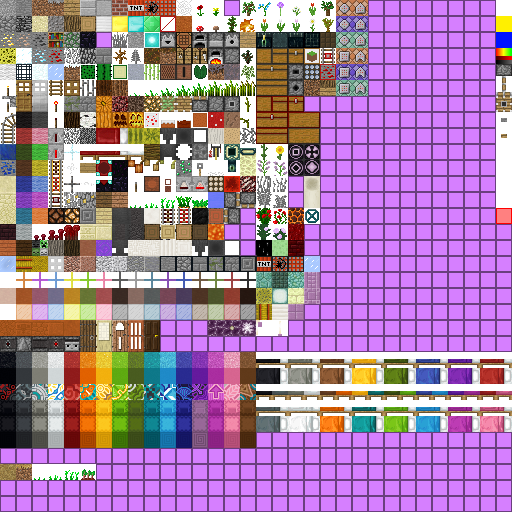
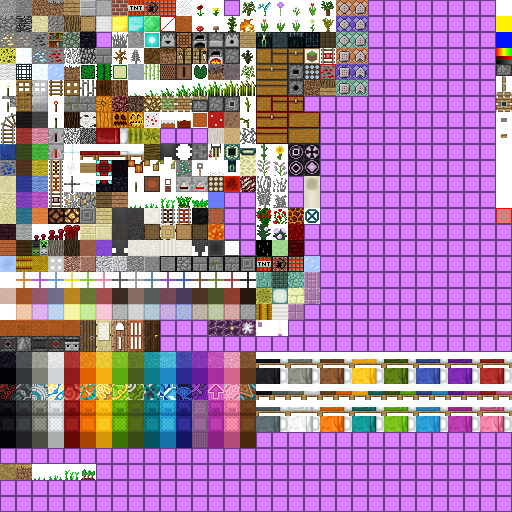
piston head extension

Changed region(s): [[0.4375, 0.375, 0.5, 0.4375], [0.3125, 0.25, 0.4062, 0.2812], [0.9688, 0.4062, 1.0, 0.4375]]

diff --git a/resources/blocksTable.js b/resources/blocksTable.js
@@ -330,10 +330,10 @@
 	{id: 29, name: "Sticky piston", type: CUST, bbox: FULL, inv: CUBE, invState: 1, cat: REDSTONE, rsupdate: RECEIVE, special: NOCONNECT, orient: FULL},
 		{state: 0, name: "+down",  tex: [12, 6,12, 6,12, 6,12, 6,13, 6,10, 6, 170]},
 		{state: 1, name: "+up",    tex: [12, 6,12, 6,12, 6,12, 6,10, 6,13, 6]},
-		{state: 2, name: "+north", tex: [14, 3,12, 6,10, 6,12, 6,12, 6,12, 6,  196]},
-		{state: 3, name: "+south", tex: [10, 6,12, 6,13, 6,12, 6,12, 6,12, 6,  2636]},
-		{state: 4, name: "+west",  tex: [12, 6,13, 6,12, 6,10, 6,12, 6,12, 6,  1811]},
-		{state: 5, name: "+east",  tex: [12, 6,10, 6,12, 6,13, 6,12, 6,12, 6,  3377]},
+		{state: 2, name: "+north", tex: [14, 3,12, 6,10, 6,12, 6,12, 6,12, 6,  2244]},
+		{state: 3, name: "+south", tex: [10, 6,12, 6,13, 6,12, 6,12, 6,12, 6,  588]},
+		{state: 4, name: "+west",  tex: [12, 6,13, 6,12, 6,10, 6,12, 6,12, 6,  3859]},
+		{state: 5, name: "+east",  tex: [12, 6,10, 6,12, 6,13, 6,12, 6,12, 6,  1329]},
 		{state: 8, name: "+extended,_down", tex: [31, 4,31, 4,31, 4,31, 4], model: [
 			319,16,12,16,0,4,0,0,0,0,0,0,0,51508,57664,57648,51492,51508,57664,57648,51492,51508,57664,57648,51492,51508,57664,57648,51492,49472,
 				57680,57664,49456,49488,57696,57680,49472,
@@ -367,10 +367,10 @@
 	{id: 33, name: "Piston", type: CUST, bbox: FULL, inv: CUBE, invState: 1, cat: REDSTONE, rsupdate: RECEIVE, special: NOCONNECT, orient: FULL},
 		{state: 0, name: "+down",           tex: [12, 6,12, 6,12, 6,12, 6,13, 6,11, 6,  170]},
 		{state: 1, name: "+up",             tex: [12, 6,12, 6,12, 6,12, 6,11, 6,13, 6]},
-		{state: 2, name: "+north",          tex: [14, 3,12, 6,11, 6,12, 6,12, 6,12, 6,  196]},
-		{state: 3, name: "+south",          tex: [11, 6,12, 6,13, 6,12, 6,12, 6,12, 6,  2636]},
-		{state: 4, name: "+west",           tex: [12, 6,13, 6,12, 6,11, 6,12, 6,12, 6,  1811]},
-		{state: 5, name: "+east",           tex: [12, 6,11, 6,12, 6,13, 6,12, 6,12, 6,  3377]},
+		{state: 2, name: "+north",          tex: [14, 3,12, 6,11, 6,12, 6,12, 6,12, 6,  2244]},
+		{state: 3, name: "+south",          tex: [11, 6,12, 6,13, 6,12, 6,12, 6,12, 6,  588]},
+		{state: 4, name: "+west",           tex: [12, 6,13, 6,12, 6,11, 6,12, 6,12, 6,  3859]},
+		{state: 5, name: "+east",           tex: [12, 6,11, 6,12, 6,13, 6,12, 6,12, 6,  1329]},
 		{state: 8, name: "+extended,_down", tex: [31, 4,31, 4,31, 4,31, 4],               model: [SAME_AS, ID(29, 8)]},
 		{state: 9, name: "-up",             tex: [31, 4,31, 4,31, 4,31, 4], rotate: 170,  model: [SAME_AS, ID(29, 9)]},
 		{state:10, name: "-north",          tex: [13, 6,31, 4,14, 6,31, 4], rotate: 588,  model: [SAME_AS, ID(29,10)]},
@@ -380,36 +380,36 @@
 
 	{id: 34, name: "Piston head", type: CUST, bbox: FULL},
 		{state: 0, name: "+down",  tex: [31, 5,31, 5,31, 5,31, 5], model: [
-			319,16,4,16,0,0,0,0,0,0,0,0,0,49456,51508,51492,49440,49456,51508,51492,49440,49456,51508,51492,49440,49456,51508,51492,49440,49440,
-				57648,57632,49424,49440,57648,57632,49424,
+			319,16,4,16,0,0,0,0,0,0,0,0,0,51508,49456,49440,51492,51508,49456,49440,51492,51508,49456,49440,51492,51508,49456,49440,51492,
+				49440,57648,57632,49424,49440,57648,57632,49424,
 			15,4,12,4,6,4,6,0,0,0,0,0,0,51504,51492,49440,49452,51504,51492,49440,49452,51504,51492,49440,49452,51504,51492,49440,49452,
 		]},
 		{state: 1, name: "+up", tex: [31, 5,31, 5,31, 5,31, 5], rotate: 170, model: [
-			319,16,4,16,0,12,0,0,0,0,0,0,0,49456,51508,51492,49440,49456,51508,51492,49440,49456,51508,51492,49440,49456,51508,51492,49440,49440,
-				57648,57632,49424,49440,57648,57632,49424,
+			319,16,4,16,0,12,0,0,0,0,0,0,0,49440,51492,51508,49456,49440,51492,51508,49456,49440,51492,51508,49456,49440,51492,51508,49456,
+				49424,57632,57648,49440,49440,57648,57632,49424,
 			15,4,12,4,6,0,6,0,0,0,0,0,0,51504,51492,49440,49452,51504,51492,49440,49452,51504,51492,49440,49452,51504,51492,49440,49452,
 		]},
 		{state: 2, name: "+north", tex: [31, 6,31, 5,11, 6,31, 5], rotate: 76, model: [
-			319,16,16,4,0,0,0,0,0,0,0,0,0,49440,57648,57632,49424,51508,51492,49440,49456,49440,57648,57632,49424,51508,51492,49440,49456,49456,
-				51508,51492,49440,49456,51508,51492,49440,
+			319,16,16,4,0,0,0,0,0,0,0,0,0,49440,57648,57632,49424,51492,51508,49456,49440,49424,57632,57648,49440,49456,49440,51492,51508,49440,
+				51492,51508,49456,49440,51492,51508,49456,
 			58,4,4,12,6,6,4,0,0,0,0,0,0,49452,51504,51492,49440,49440,51492,51504,49452,51492,51504,49452,49440,51492,51504,49452,49440,
 		]},
 		{state: 3, name: "+south", tex: [11, 6,31, 5,31, 6,31, 5], rotate: 196,  model: [SAME_AS, ID(34, 2), 1343]},
 		{state: 4, name: "+west",  tex: [31, 5,31, 6,31, 5,11, 6], rotate: 1329, model: [SAME_AS, ID(34, 2), 1855]},
 		{state: 5, name: "+east",  tex: [31, 5,11, 6,31, 5,31, 6], rotate: 3859, model: [SAME_AS, ID(34, 2), 831]},
 		{state: 8, name: "+sticky,_down", tex: [31, 5,31, 5,31, 5,31, 5], model: [
-			319,16,4,16,0,0,0,0,0,0,0,0,0,49456,51508,51492,49440,49456,51508,51492,49440,49456,51508,51492,49440,49456,51508,51492,49440,49440,
-				57648,57632,49424,49424,57632,57616,49408,
+			319,16,4,16,0,0,0,0,0,0,0,0,0,51508,49456,49440,51492,51508,49456,49440,51492,51508,49456,49440,51492,51508,49456,49440,51492,
+				49440,57648,57632,49424,49408,57616,57632,49424,
 			15,4,12,4,6,4,6,0,0,0,0,0,0,51504,51492,49440,49452,51504,51492,49440,49452,51504,51492,49440,49452,51504,51492,49440,49452,
 		]},
 		{state: 9, name: "+up", tex: [31, 5,31, 5,31, 5,31, 5], rotate: 170, model: [
-			319,16,4,16,0,12,0,0,0,0,0,0,0,49456,51508,51492,49440,49456,51508,51492,49440,49456,51508,51492,49440,49456,51508,51492,49440,49424,
-				57632,57616,49408,49440,57648,57632,49424,
+			319,16,4,16,0,12,0,0,0,0,0,0,0,49440,51492,51508,49456,49440,51492,51508,49456,49440,51492,51508,49456,49440,51492,51508,49456,
+				49408,57616,57632,49424,49440,57648,57632,49424,
 			15,4,12,4,6,0,6,0,0,0,0,0,0,51504,51492,49440,49452,51504,51492,49440,49452,51504,51492,49440,49452,51504,51492,49440,49452,
 		]},
 		{state: 10, name: "+north", tex: [31, 6,31, 5,10, 6,31, 5], rotate: 76, model: [
-			319,16,16,4,0,0,0,0,0,0,0,0,0,49440,57648,57632,49424,51508,51492,49440,49456,49424,57632,57616,49408,51508,51492,49440,49456,49456,
-				51508,51492,49440,49456,51508,51492,49440,
+			319,16,16,4,0,0,0,0,0,0,0,0,0,49440,57648,57632,49424,51492,51508,49456,49440,49408,57616,57632,49424,49456,49440,51492,51508,
+				49440,51492,51508,49456,49440,51492,51508,49456,
 			58,4,4,12,6,6,4,0,0,0,0,0,0,49452,51504,51492,49440,49440,51492,51504,49452,51492,51504,49452,49440,51492,51504,49452,49440,
 		]},
 		{state: 11, name: "+south", tex: [10, 6,31, 5,31, 6,31, 5], rotate: 196,  model: [SAME_AS, ID(34, 10), 1343]},
@@ -1983,7 +1983,7 @@
 	{id: 153, name: "Quartz ore", type: SOLID, inv: CUBE, cat: BUILD},
 		{state: 0, tex: [15,11,15,11,15,11,15,11,15,11,15,11]},
 
-	{id: 154, name: "Hopper", type: CUST, bbox: MAX, orient: FULL, tile: 1, rsupdate: RECEIVE},
+	{id: 154, name: "Hopper", type: CUST, inv: MODEL, invState: 0, cat: REDSTONE, bbox: MAX, orient: FULL, tile: 1, rsupdate: RECEIVE},
 		{state: 0, name: "-facing_down", tex: [10, 8,10, 8,10, 8,10, 8], model: [
 			431,4,4,4,6,0,6,0,0,0,0,0,0,123312,131520,131536,123328,123312,131520,131536,123328,123312,131520,131536,123328,123312,
 				131520,131536,123328,254944,263152,263168,254960,123328,131536,131552,123344,

diff --git a/blockUpdate.c b/blockUpdate.c
@@ -518,11 +518,12 @@ static void mapUpdateAddPistonExt(struct BlockIter_t iter, int blockId, Bool ext
 	{
 		NBTFile_t ret = {.page = 127};
 		TEXT itemId[128];
-		int  id = ID(RSPISTONHEAD, blockId & 15);
+		int  id = ID(RSPISTONHEAD, blockId & 7);
 
 		if ((blockId >> 4) == RSSTICKYPISTON)
 			id |= 8;
 
+		itemId[0] = 0;
 		NBT_Add(&ret,
 			TAG_String, "id",        itemGetTechName(id, itemId, sizeof itemId),
 			TAG_Int,    "x",         (int) dest[VX],
@@ -557,13 +558,16 @@ static void mapUpdateAddPistonExt(struct BlockIter_t iter, int blockId, Bool ext
 		memcpy(tmp, src, 12);
 		memcpy(src, dest, 12);
 		memcpy(dest, tmp, 12);
+		/* piston retracting: remove head block (silently) */
+		mapUpdateTable(&iter, 0, DATA_OFFSET);
+		iter.blockIds[iter.offset] = 0;
 	}
 
 	blockId = itemGetByName(NBT_PayloadFromStream(tile, 0, "id"), False);
 	/* create or update the moving block */
 	if (blockId > 0)
 		/* XXX need progress */
-		entityUpdateOrCreate(src, blockId, dest, 2, tile);
+		entityUpdateOrCreate(src, blockId, dest, 1, tile);
 }
 
 /* power level near piston has changed */
@@ -578,7 +582,6 @@ int mapUpdatePiston(BlockIter iterator, int blockId, Bool init)
 		/* piston extended, but no power source */
 		mapUpdateAddPistonExt(*iterator, blockId, False);
 		if (init) return blockId & ~8;
-		else mapUpdateTable(iterator, (blockId & ~8) & 15, DATA_OFFSET);
 	}
 	else if (i < 6)
 	{
@@ -881,17 +884,22 @@ void updateFinished(Map map, DATA8 tile)
 
 	switch (blockId >> 4) {
 	case RSPISTONHEAD:
-		if (NBT_ToInt(&nbt, NBT_FindNode(&nbt, 0, "extending"), 0) == 0)
+		if (NBT_ToInt(&nbt, NBT_FindNode(&nbt, 0, "extending"), 0) == 1)
 		{
-			/* piston retracted, remove piston head */
-			mapUpdate(map, pos, 0, NULL, True);
+			/* piston extended: add real piston head (instead of entity) */
+			mapUpdate(map, pos, blockId, NULL, True);
 		}
-		else
+		else /* piston retracted: remove extended state on piston */
 		{
-			/* piston extended: add piston head */
+			uint8_t ext = blockSides.piston[blockId & 7];
+			pos[0] -= relx[ext];
+			pos[1] -= rely[ext];
+			pos[2] -= relz[ext];
+			if (blockId & 8)
+				blockId = ID(RSSTICKYPISTON, blockId & 7);
+			else
+				blockId = ID(RSPISTON, blockId & 7);
 			mapUpdate(map, pos, blockId, NULL, True);
 		}
 	}
 }
-
-

diff --git a/entities.c b/entities.c
@@ -405,7 +405,7 @@ static void entityFillLocation(Entity ent, float loc[6])
 	loc[0] = ent->pos[0];
 	loc[1] = ent->pos[1];
 	loc[2] = ent->pos[2];
-	loc[3] = ent->select ? 511 : 255; /* skylight/blocklight */
+	loc[3] = ent->select ? 296 : 240; /* skylight/blocklight */
 	loc[4] = ent->rotation[0];
 	loc[5] = ent->rotation[1];
 }
@@ -557,7 +557,7 @@ static void entitySetSelection(Entity entity)
 			for (i = entities.selected->VBObank & 63, bank = HEAD(entities.banks); i > 0; i --, NEXT(bank));
 			if (! bank->dirty)
 			{
-				float val = 255;
+				float val = 240;
 				glBindBuffer(GL_ARRAY_BUFFER, bank->vboLoc);
 				glBufferSubData(GL_ARRAY_BUFFER, entities.selected->mdaiSlot * INFO_SIZE + 12, 4, &val);
 			}
@@ -571,7 +571,7 @@ static void entitySetSelection(Entity entity)
 			if (! bank->dirty)
 			{
 				/* selection flag is set directly in VBO meta-data */
-				float val = 511;
+				float val = 496;
 				glBindBuffer(GL_ARRAY_BUFFER, bank->vboLoc);
 				glBufferSubData(GL_ARRAY_BUFFER, entity->mdaiSlot * INFO_SIZE + 12, 4, &val);
 			}
@@ -793,7 +793,7 @@ void entityUpdateOrCreate(vec4 pos, int blockId, vec4 dest, int ticks, DATA8 til
 	anim = entities.animate + entities.animCount;
 	entities.animCount ++;
 	anim->prevTime = (int) curTime;
-	anim->stopTime = anim->prevTime + ticks * 20 * (1000 / TICK_PER_SECOND);
+	anim->stopTime = anim->prevTime + ticks * (1000 / TICK_PER_SECOND);
 	anim->entity = entity;
 }
 

diff --git a/mapUpdate.c b/mapUpdate.c
@@ -991,9 +991,9 @@ static void mapUpdateChangeRedstone(Map map, BlockIter iterator, int side, RSWir
 	Block b = &blockIds[iter.blockIds[iter.offset]];
 	int   i, count, flags;
 
-	if (b->type == SOLID)
+	if (b->type == SOLID || b->id == 0)
 	{
-		flags = 127 ^ (1 << (opp[side]+1));
+		flags = 127 ^ (side == RSSAMEBLOCK ? 1 : 1 << (opp[side]+1));
 		count = 6;
 	}
 	else
@@ -1031,6 +1031,7 @@ static void mapUpdateDeleteRedstone(Map map, BlockIter iterator, int blockId)
 	case RSTORCH_ON:
 	case RSBLOCK:
 		mapUpdateDeleteSignal(iterator, 0);
+		mapUpdateChangeRedstone(map, iterator, RSSAMEBLOCK, NULL);
 		break;
 	case RSREPEATER_ON:
 		iterator->blockIds[iterator->offset] = 0;
@@ -1408,7 +1409,11 @@ void mapUpdate(Map map, vec4 pos, int blockId, DATA8 tile, Bool blockUpdate)
 		{
 			mapUpdateDeleteSignal(&iter, blockId);
 		}
-		else mapUpdatePropagateSignal(&iter);
+		else
+		{
+			mapUpdatePropagateSignal(&iter);
+			mapUpdateChangeRedstone(map, &iter, RSSAMEBLOCK, NULL);
+		}
 	}
 
 	/* block replaced: check if there is a tile entity to delete */
